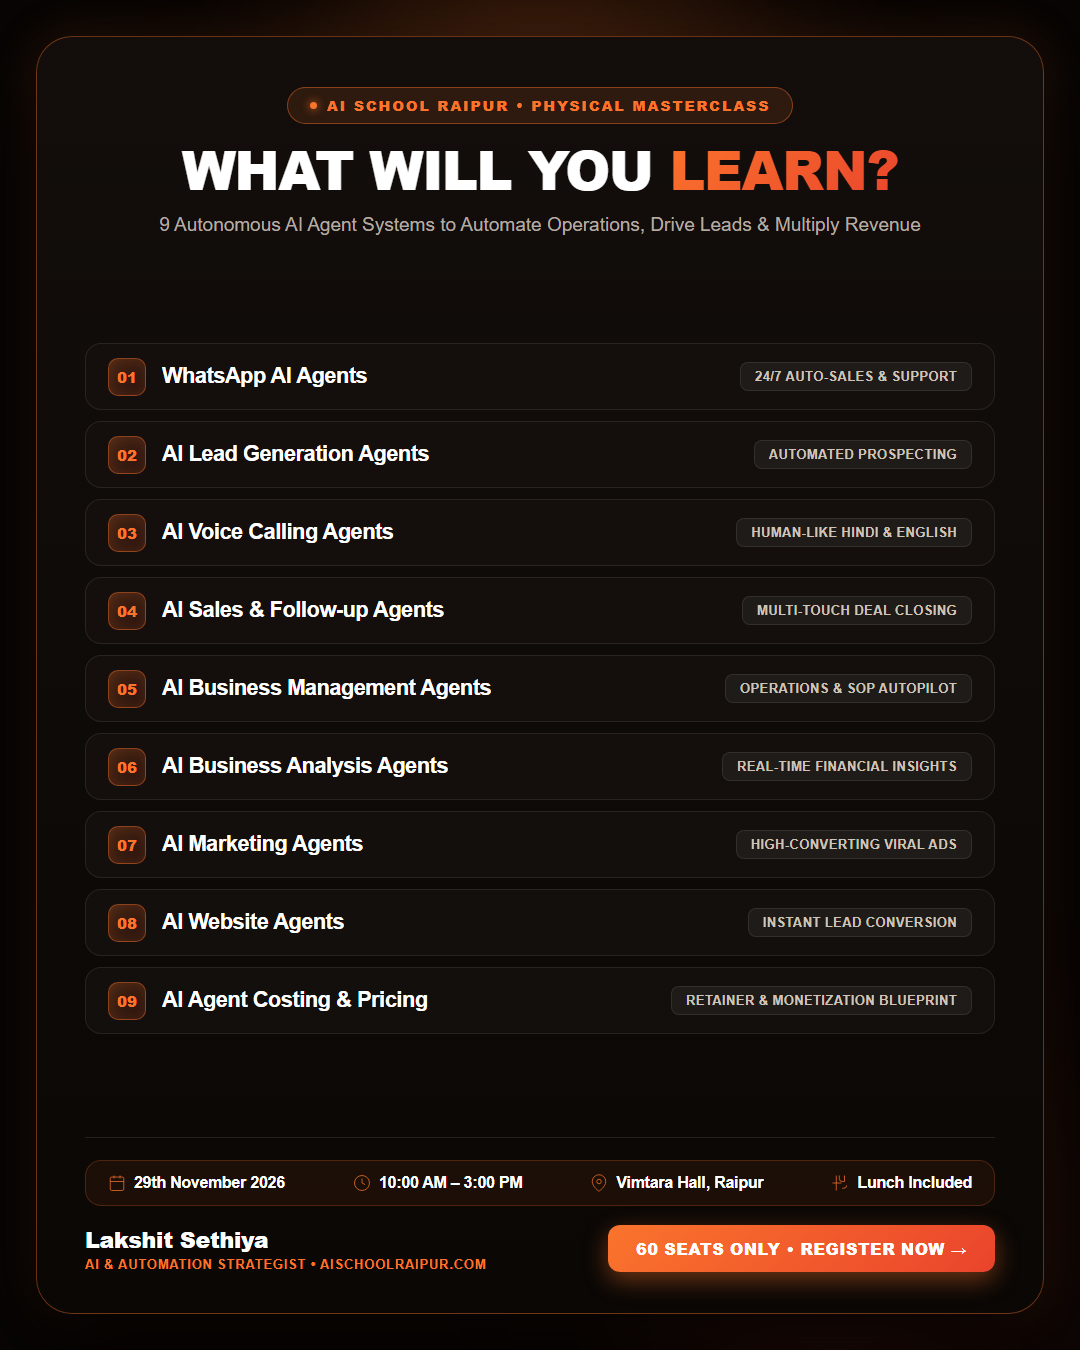
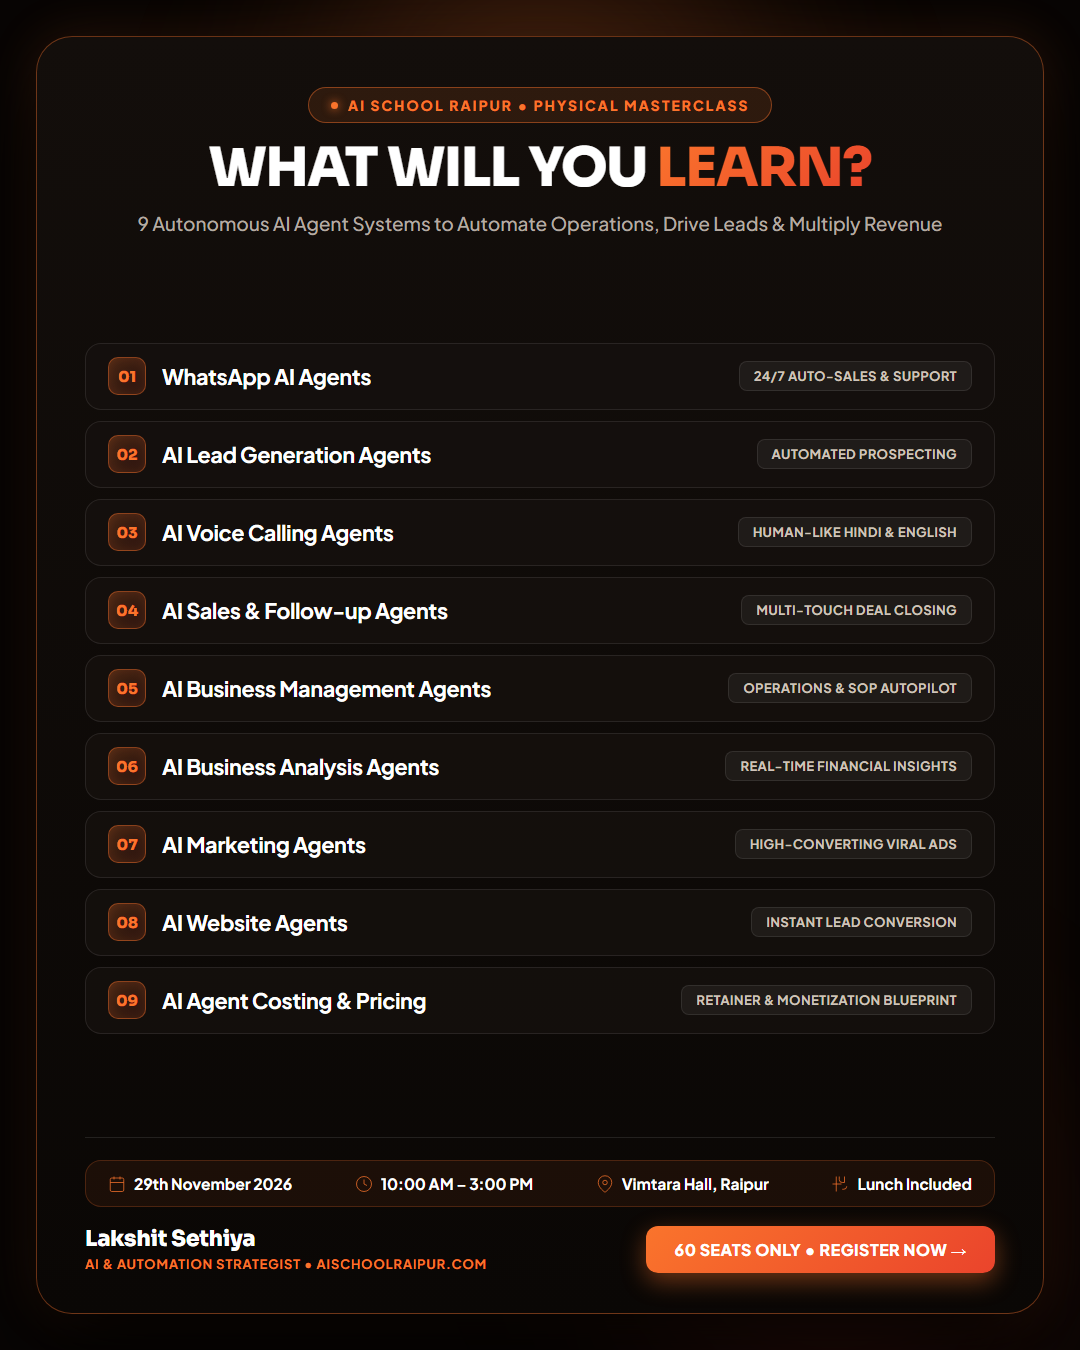
Deploy: Raipur's most advanced AI and automation workshop by Lakshit Sethiya (cache purge v20)

diff --git a/src/lib/data.ts b/src/lib/data.ts
@@ -253,7 +253,7 @@ export const DEFAULTS = {
     'Aarambh - Raipur Startup Incubation & Innovation Centre, 3rd Floor, Multi Level Car Parking, Jaistambh Chowk, Moudhapara, Raipur, Chhattisgarh 492001',
   FOOTER_BY: 'By Lakshit Sethiya',
   FOOTER_DESCRIPTION:
-    "India's Most Advance AI & Automation Masterclass — helping professionals and entrepreneurs master AI tools and grow their business.",
+    "Raipur's most advanced AI and automation workshop by Lakshit Sethiya — helping professionals and entrepreneurs master AI agents and grow their business.",
   COPYRIGHT: '© 2026 Social Seller Academy. All rights reserved.',
   ATTRIBUTION_PREFIX: '',
   ATTRIBUTION_LINK_LABEL: '',
@@ -311,9 +311,9 @@ export const INITIAL_SETTINGS: SiteSettings = {
     secondary: '#0a0706',
     accent: '#ff3d1a',
   },
-  seoTitle: "Raipur's Most Advance Ai & Automation Masterclass",
+  seoTitle: "Raipur's Most Advanced AI & Automation Workshop by Lakshit Sethiya",
   seoDescription:
-    'A Full Day live Physical workshop by Lakshit Sethiya, where you’ll discover how to scale your business using ai & automation',
+    "Raipur's most advanced AI and automation workshop by Lakshit Sethiya. A full-day physical workshop where you'll discover how to scale your business using AI & automation.",
   ogImage: '/media/hero-poster.webp',
   homePageSlug: 'home-copy',
   seatsRemaining: 60,
@@ -323,7 +323,7 @@ export const INITIAL_SETTINGS: SiteSettings = {
   facebookPixelId: '762245465547904',
   footerJson: {
     description:
-      'AI & Automation Masterclass by Lakshit Sethiya. Practical tools, live demos, and templates you can deploy the same day.',
+      "Raipur's most advanced AI and automation workshop by Lakshit Sethiya. Practical tools, live demos, and templates you can deploy the same day.",
     copyright: '© 2026 Social Seller Academy. All rights reserved.',
     attribution: 'AI School Raipur · Powered by Social Seller',
     tagline: 'By Lakshit Sethiya',
@@ -438,17 +438,17 @@ export const INITIAL_COURSES: CourseItem[] = [
 export const INITIAL_PAGES: LandingPage[] = [
   {
     id: 'cmtjtmwbs0000b5xs4vvu1rtu',
-    name: "Raipur's Most Advance Ai & Automation Masterclass",
-    title: "Raipur's Most Advance Ai & Automation Masterclass",
+    name: "Raipur's Most Advanced AI & Automation Workshop by Lakshit Sethiya",
+    title: "Raipur's Most Advanced AI & Automation Workshop by Lakshit Sethiya",
     slug: 'home-copy',
-    description: 'Live workshop by Lakshit Sethiya in Raipur.',
+    description: "Raipur's most advanced AI and automation workshop by Lakshit Sethiya.",
     status: 'PUBLISHED',
-    seoTitle: "Raipur's Most Advance Ai & Automation Masterclass",
+    seoTitle: "Raipur's Most Advanced AI & Automation Workshop by Lakshit Sethiya",
     seoDescription:
-      'A Full Day live Physical workshop by Lakshit Sethiya, where you’ll discover how to scale your business using ai & automation',
+      "Raipur's most advanced AI and automation workshop by Lakshit Sethiya. A full-day physical workshop where you'll discover how to scale your business using AI & automation.",
     seoKeywords: 'AI workshop, automation, Raipur, Lakshit Sethiya',
-    ogTitle: "Raipur's Most Advance Ai & Automation Masterclass",
-    ogDescription: 'Master 30+ Ai Tools in a Full Day live Physical workshop.',
+    ogTitle: "Raipur's Most Advanced AI & Automation Workshop by Lakshit Sethiya",
+    ogDescription: "Master AI Agents & Automation in Raipur's most advanced physical workshop by Lakshit Sethiya.",
     ogImage: '/media/hero-poster.webp',
     facebookPixelId: '762245465547904',
     theme: 'classic',
@@ -488,11 +488,11 @@ export const INITIAL_PAGES: LandingPage[] = [
         sortOrder: 0,
         data: {
           eyebrow: '2000+ people attended in Raipur',
-          heading: "Raipur's Most Advance ",
-          highlight: 'Ai & Automation',
-          headingEnd: 'Masterclass ',
+          heading: "Raipur's Most Advanced ",
+          highlight: 'AI & Automation Workshop',
+          headingEnd: 'by Lakshit Sethiya',
           description:
-            'A Full Day live Physical workshop by Lakshit Sethiya, where you’ll discover how to scale your business using ai & automation',
+            "A full-day live physical workshop by Lakshit Sethiya, where you'll discover how to scale your business using AI & automation",
           video: {
             source: 'file',
             url: '/media/hero-fast.mp4',
@@ -900,16 +900,16 @@ export const INITIAL_PAGES: LandingPage[] = [
   },
   {
     id: 'cmthabu2t000faif7nl0xs0z6',
-    name: 'AI Automation Masterclass (15 Business Ideas)',
-    title: "Raipur's Most Advance AI & Automation Masterclass",
+    name: "Raipur's Most Advanced AI & Automation Workshop by Lakshit Sethiya",
+    title: "Raipur's Most Advanced AI & Automation Workshop by Lakshit Sethiya",
     slug: 'home',
-    description: 'Live workshop by Lakshit Sethiya. Online via Zoom on 6th September.',
+    description: "Raipur's most advanced AI and automation workshop by Lakshit Sethiya.",
     status: 'PUBLISHED',
-    seoTitle: "Raipur's Most Advance AI & Automation Masterclass — Lakshit Sethiya | 6 September",
+    seoTitle: "Raipur's Most Advanced AI & Automation Workshop by Lakshit Sethiya",
     seoDescription:
-      'A 3-hour Live Workshop by Lakshit Sethiya, Online via Zoom, that can change the way you do business.',
+      "Raipur's most advanced AI and automation workshop by Lakshit Sethiya. A full-day physical workshop where you'll discover how to scale your business using AI & automation.",
     seoKeywords: 'AI workshop, automation, Raipur, Lakshit Sethiya',
-    ogTitle: "India's Most Advance AI & Automation Masterclass",
+    ogTitle: "Raipur's Most Advanced AI & Automation Workshop by Lakshit Sethiya",
     ogDescription: 'Master 30+ AI tools in a 3-hour live workshop.',
     ogImage: '/media/hero-poster.webp',
     facebookPixelId: '',

diff --git a/src/lib/pixel.ts b/src/lib/pixel.ts
@@ -56,9 +56,9 @@ export const PixelTracker = {
 
   viewContent: (details?: { name?: string; price?: number }) => {
     trackPixel('ViewContent', {
-      content_name: details?.name || "Raipur's Most Advance Ai & Automation Masterclass",
+      content_name: details?.name || "Raipur's Most Advanced AI & Automation Workshop by Lakshit Sethiya",
       content_category: 'Physical Workshop',
-      content_ids: ['ai-masterclass-raipur-29-nov'],
+      content_ids: ['ai-workshop-raipur-29-nov'],
       content_type: 'product',
       value: details?.price || 1999,
       currency: 'INR',
@@ -72,13 +72,13 @@ export const PixelTracker = {
   ) => {
     trackPixel('InitiateCheckout', {
       content_name: ticketDetails?.name
-        ? `${ticketDetails.name} - Raipur's Most Advance Ai & Automation Masterclass`
-        : "Raipur's Most Advance Ai & Automation Masterclass",
+        ? `${ticketDetails.name} - Raipur's Most Advanced AI & Automation Workshop by Lakshit Sethiya`
+        : "Raipur's Most Advanced AI & Automation Workshop by Lakshit Sethiya",
       content_category: 'Ticket Registration',
       content_ids: [
         ticketDetails?.name
           ? `ticket-${ticketDetails.name.toLowerCase().replace(/\s+/g, '-')}`
-          : 'ai-masterclass-raipur-29-nov',
+          : 'ai-workshop-raipur-29-nov',
       ],
       value: ticketDetails?.price || 1999,
       currency: 'INR',
@@ -99,8 +99,8 @@ export const PixelTracker = {
 
   purchase: (details?: { transactionId?: string; amount?: number }) => {
     trackPixel('Purchase', {
-      content_name: "Raipur's Most Advance Ai & Automation Masterclass",
-      content_ids: ['ai-masterclass-raipur-29-nov'],
+      content_name: "Raipur's Most Advanced AI & Automation Workshop by Lakshit Sethiya",
+      content_ids: ['ai-workshop-raipur-29-nov'],
       content_type: 'product',
       value: details?.amount || 1999,
       currency: 'INR',

diff --git a/src/components/PublicSections.tsx b/src/components/PublicSections.tsx
@@ -1150,7 +1150,7 @@ export function PassesBlock({
   const headingEnd = asStr(d.headingEnd, '');
   const description =
     asStr(d.description) ||
-    "Raipur's Most Advance Ai & Automation Masterclass · Vimtara Hall, Raipur (10:00AM TO 03:00 PM)";
+    "Raipur's Most Advanced AI & Automation Workshop by Lakshit Sethiya · Vimtara Hall, Raipur (10:00 AM TO 03:00 PM)";
   const seatsText =
     asStr(d.seatsText) ||
     `${seatsRemaining} seats remaining. Early discounted seats are filling fast!`;
@@ -1353,6 +1353,9 @@ export function PassModal({ settings }: { settings: SiteSettings }) {
           <h2 id="pass-modal-title" className="pass-modal-title">
             Choose Your Experience for <em>29th November</em>
           </h2>
+          <p className="pass-modal-workshop-name">
+            Raipur's Most Advanced AI & Automation Workshop by Lakshit Sethiya
+          </p>
           <div className="pass-modal-meta">
             <span className="pass-modal-meta-item">
               <MapPinIcon size={14} />
@@ -2161,6 +2164,7 @@ export function SectionRenderer({
     case 'passes':
     case 'tickets':
     case 'proof_impact':
+    case 'contact':
     case 'contact_form':
     case 'what_you_learn':
     case 'workshop_tracks':

diff --git a/src/styles/index.css b/src/styles/index.css
@@ -409,6 +409,17 @@
   }
 }
 
+@media (max-width: 640px) {
+  h1.heading.heading--hero,
+  .heading--hero {
+    font-size: clamp(1.35rem, 5.8vw, 1.8rem) !important;
+    line-height: 1.18 !important;
+    padding: 0 0.5rem;
+    word-break: normal;
+    overflow-wrap: break-word;
+  }
+}
+
 /* ==========================================================
    What Will You Learn Section & Graphics Card
    ========================================================== */
@@ -794,6 +805,13 @@
   -webkit-text-fill-color: transparent;
   font-style: normal;
 }
+.pass-modal-workshop-name {
+  color: #fa742c;
+  font-size: clamp(0.85rem, 1.4vw, 1rem);
+  font-weight: 600;
+  margin: -0.2rem 0 0.85rem;
+  letter-spacing: 0.01em;
+}
 .pass-modal-meta {
   display: flex;
   align-items: center;
@@ -1024,3 +1042,21 @@
     display: none;
   }
 }
+
+@media (max-width: 640px) {
+  .public-shell .heading--hero,
+  .theme-classic .heading--hero,
+  h1.heading.heading--hero {
+    font-size: clamp(1.1rem, 4.75vw, 1.42rem) !important;
+    line-height: 1.25 !important;
+    padding: 0 0.5rem;
+    letter-spacing: -0.03em;
+    overflow-wrap: break-word;
+    word-break: normal;
+  }
+  .heading-line {
+    display: block;
+    white-space: normal;
+  }
+}
+

diff --git a/src/lib/cms.ts b/src/lib/cms.ts
@@ -21,14 +21,14 @@ import {
 
 const STORAGE_KEYS = {
   AUTH: 'aischool_auth_token',
-  SETTINGS: 'aischool_settings_v19',
-  PAGES: 'aischool_pages_v19',
-  NAV: 'aischool_nav_v19',
-  COURSES: 'aischool_courses_v19',
-  TESTIMONIALS: 'aischool_testimonials_v19',
-  FAQS: 'aischool_faqs_v19',
-  LEADS: 'aischool_leads_v19',
-  MEDIA: 'aischool_media_v19',
+  SETTINGS: 'aischool_settings_v20',
+  PAGES: 'aischool_pages_v20',
+  NAV: 'aischool_nav_v20',
+  COURSES: 'aischool_courses_v20',
+  TESTIMONIALS: 'aischool_testimonials_v20',
+  FAQS: 'aischool_faqs_v20',
+  LEADS: 'aischool_leads_v20',
+  MEDIA: 'aischool_media_v20',
 };
 
 // Automatic Cache Purge: Clean up any stale localStorage from older deployments so all visitors get fresh sections
@@ -37,7 +37,7 @@ if (typeof window !== 'undefined') {
     const keysToRemove: string[] = [];
     for (let i = 0; i < localStorage.length; i++) {
       const k = localStorage.key(i);
-      if (k && k.startsWith('aischool_') && !k.endsWith('_v19') && k !== STORAGE_KEYS.AUTH) {
+      if (k && k.startsWith('aischool_') && !k.endsWith('_v20') && k !== STORAGE_KEYS.AUTH) {
         keysToRemove.push(k);
       }
     }

diff --git a/index.html b/index.html
@@ -4,10 +4,10 @@
     <meta charset="UTF-8" />
     <meta name="viewport" content="width=device-width, initial-scale=1.0, viewport-fit=cover" />
     <link rel="icon" href="/favicon.png?v=2" />
-    <title>AI School Raipur — Raipur's Most Advance Ai & Automation Masterclass</title>
+    <title>AI School Raipur — Raipur's Most Advanced AI & Automation Workshop by Lakshit Sethiya</title>
     <meta
       name="description"
-      content="A Full Day live Physical workshop by Lakshit Sethiya, where you’ll discover how to scale your business using ai & automation"
+      content="Raipur's most advanced AI and automation workshop by Lakshit Sethiya. A full-day physical workshop in Raipur on 29th November."
     />
     <!-- Preload hero poster for instant visual render -->
     <link rel="preload" as="image" href="/media/hero-poster.webp" type="image/webp" />

diff --git a/src/pages/LandingView.tsx b/src/pages/LandingView.tsx
@@ -94,7 +94,7 @@ export function LandingView({ slug }: { slug?: string }) {
   useEffect(() => {
     PixelTracker.pageView();
     PixelTracker.viewContent({
-      name: page?.title || "Raipur's Most Advance Ai & Automation Masterclass",
+      name: page?.title || "Raipur's Most Advanced AI & Automation Workshop by Lakshit Sethiya",
       price: 1999,
     });
 
